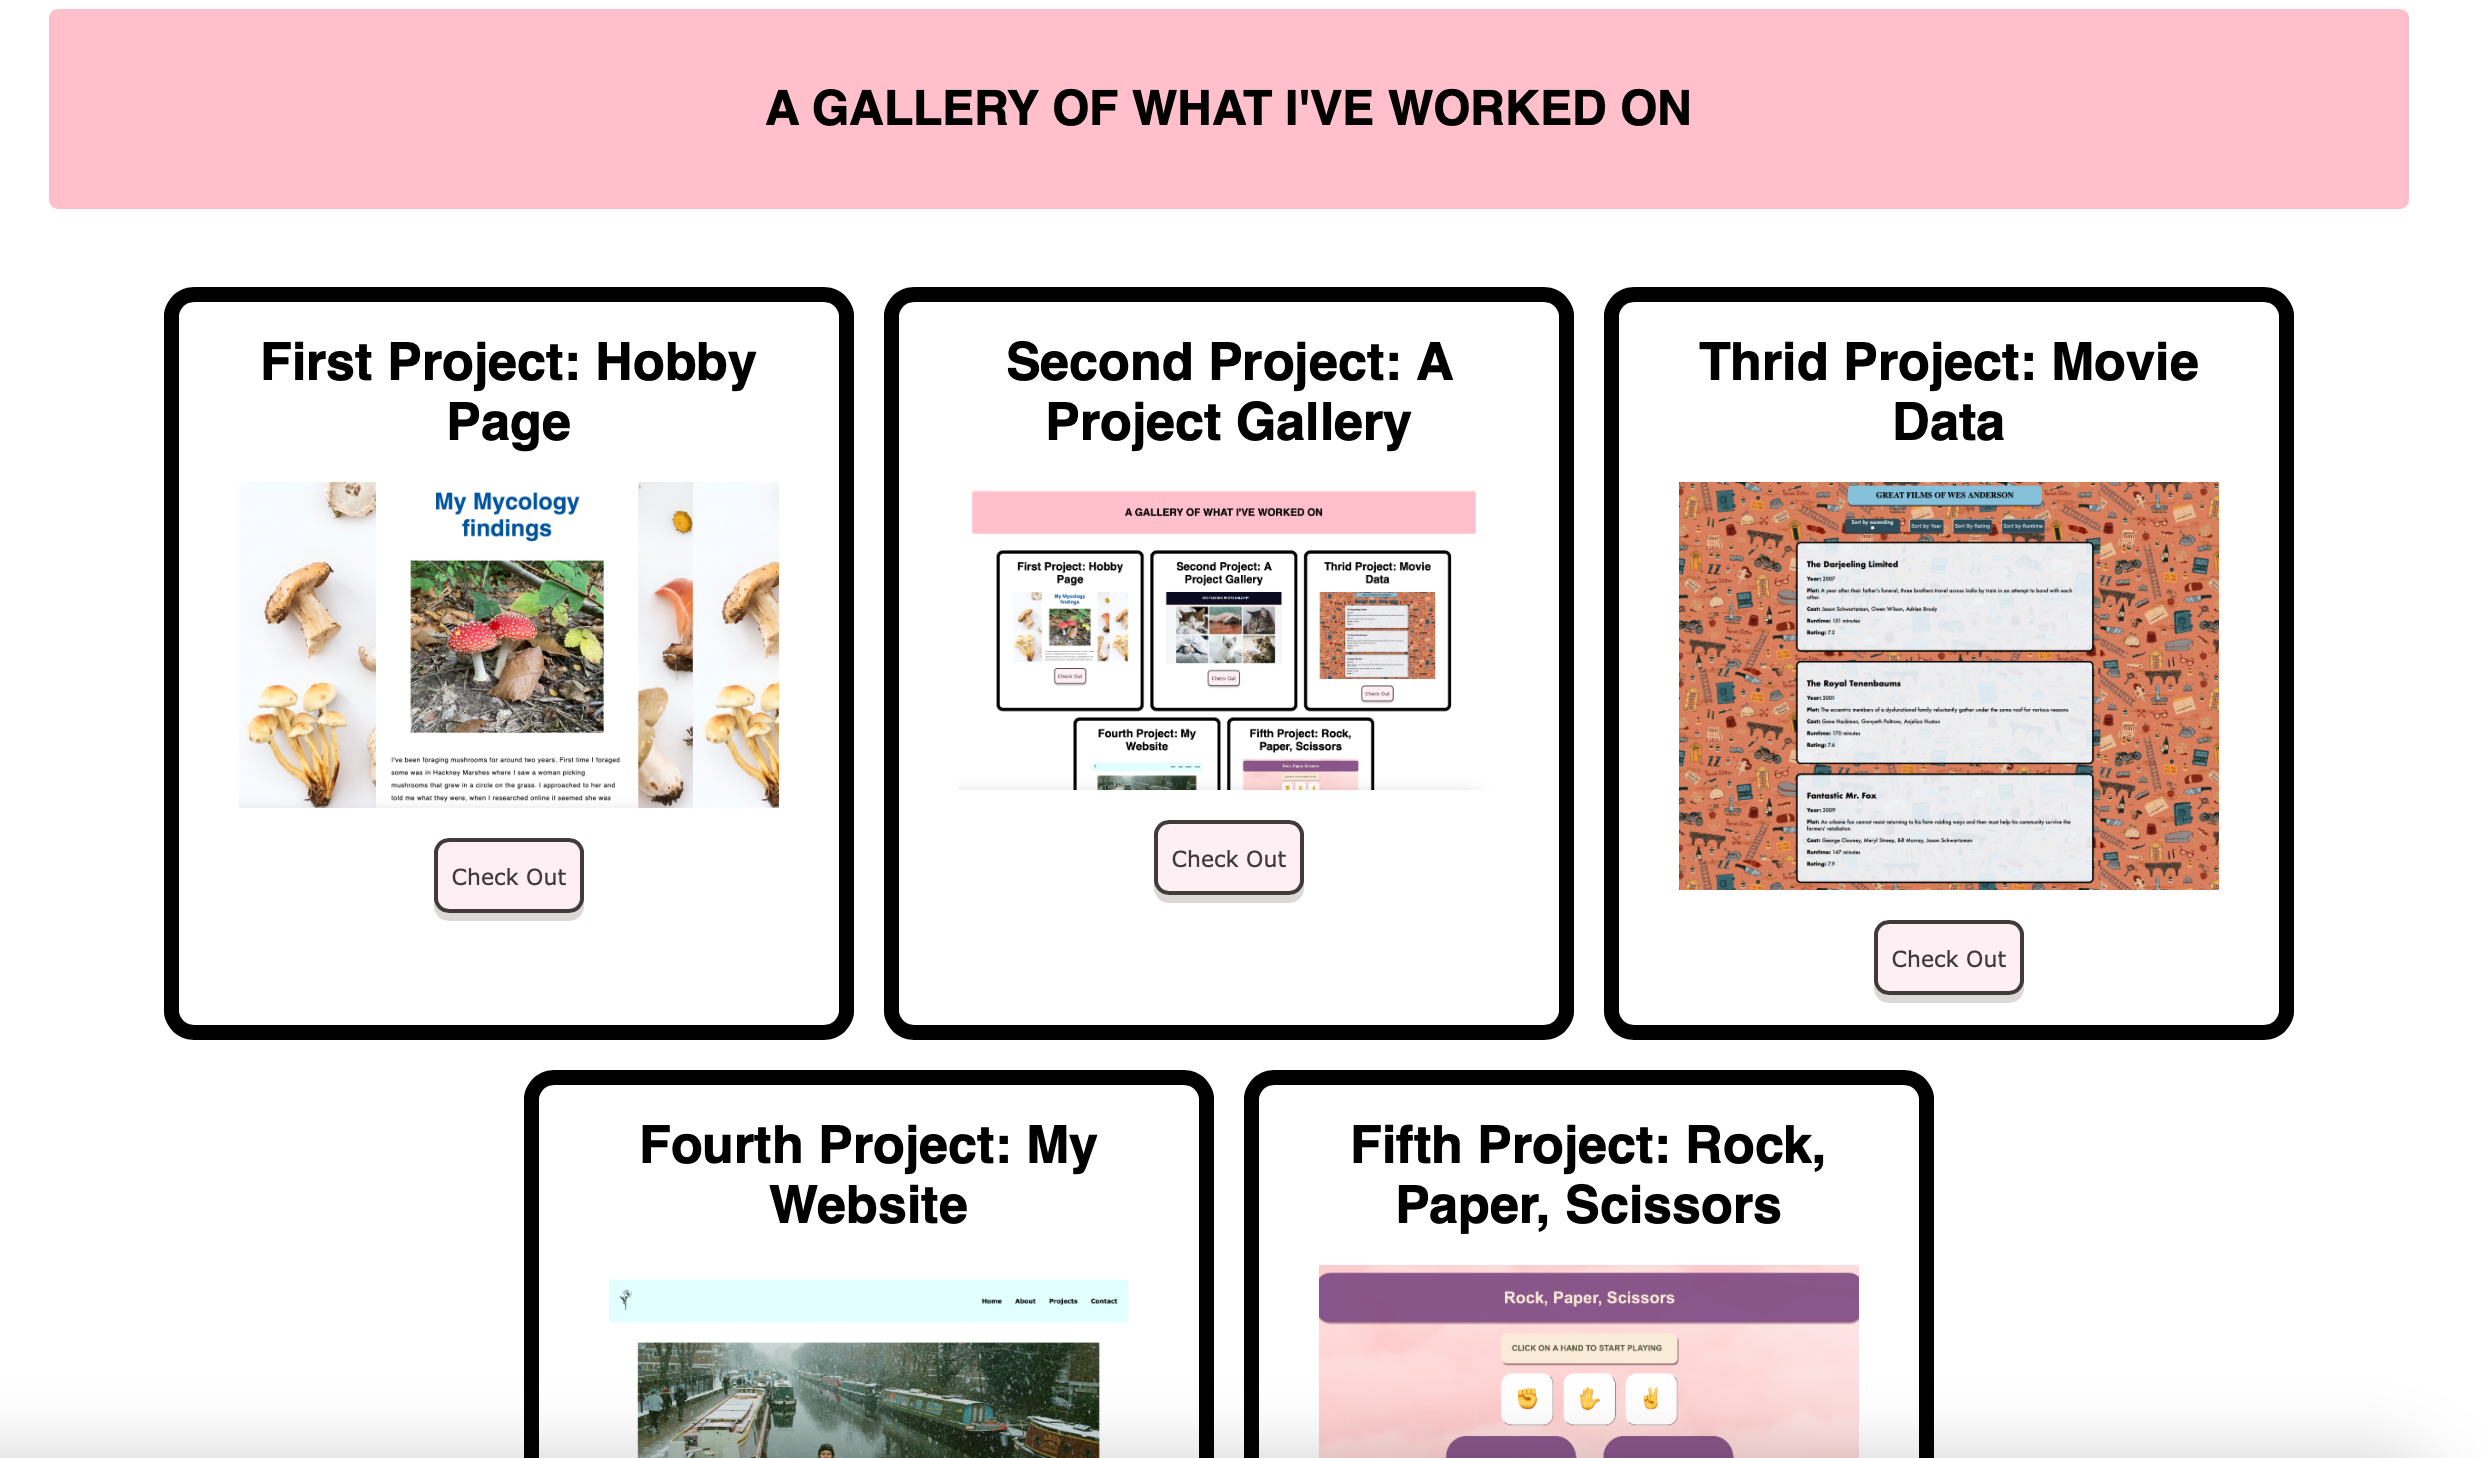
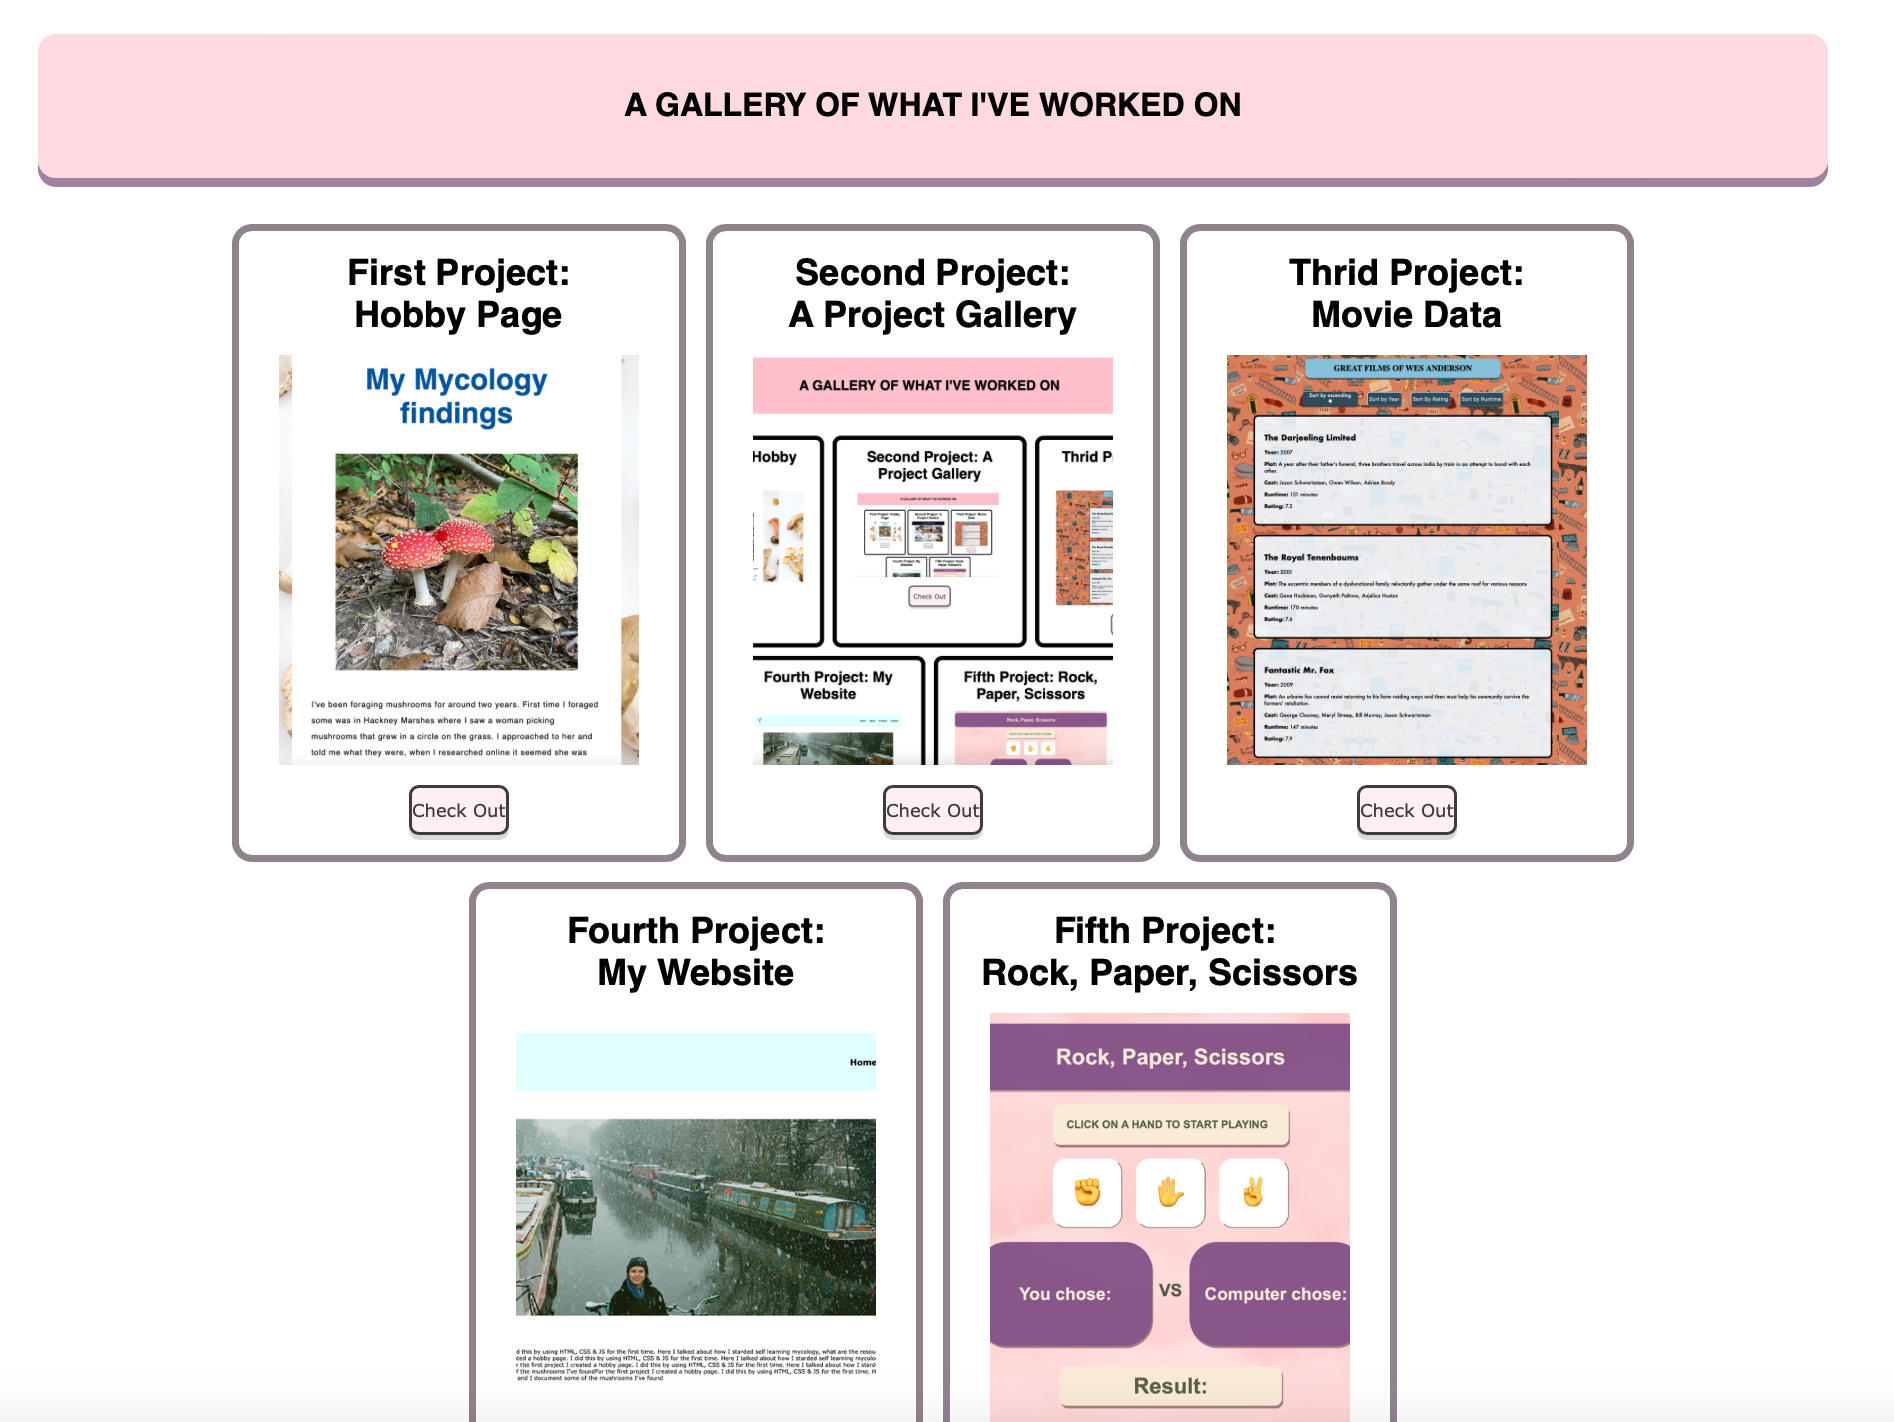
added more media query to the padding body

diff --git a/styles/style.css b/styles/style.css
@@ -157,4 +157,8 @@ h2 {
   footer {
     font-size: 10px;
   }
+
+  body {
+    padding: 40px;
+  }
 }
